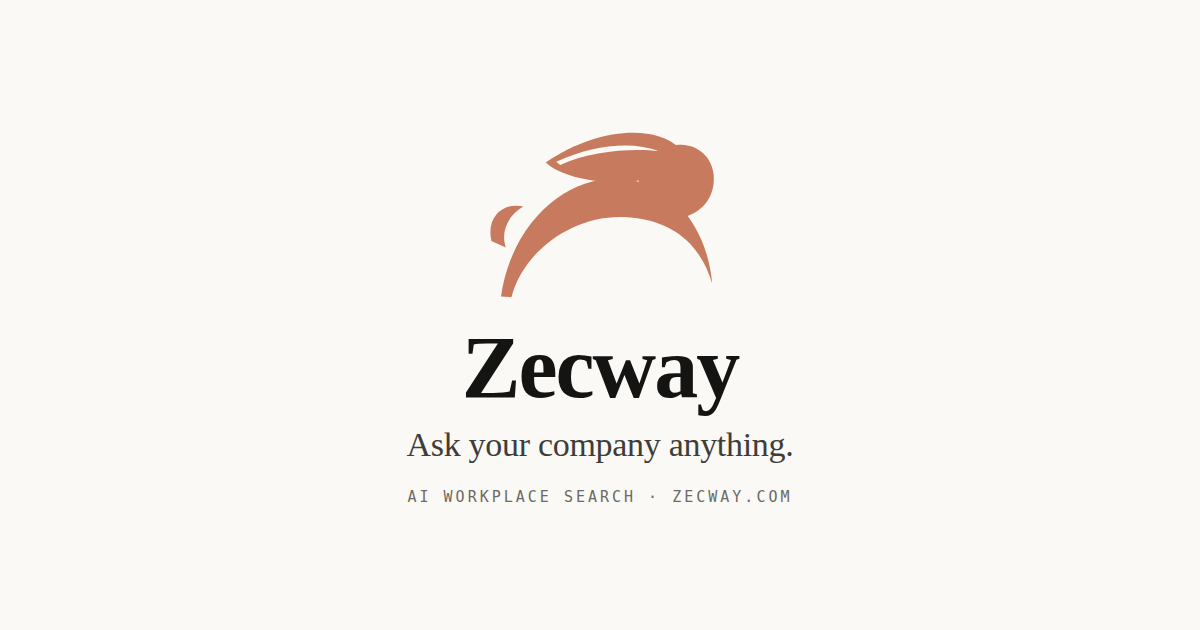
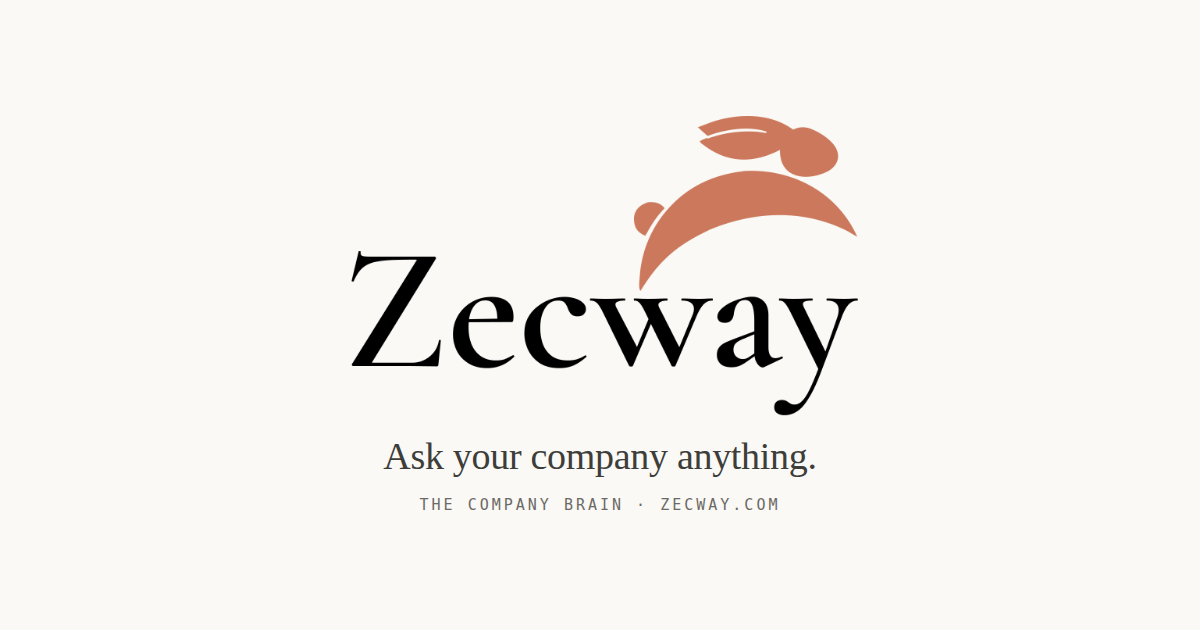
The original brand files, everywhere
Founder uploaded the real logo assets (mark, horizontal and vertical
lockups, all transparent PNGs). The hand-traced stand-in is retired:
the vertical lockup crowns the hero and login, the horizontal lockup
heads the app sidebar and onboarding, the mark pairs with light text on
the dark footer, and the favicon and share card are regenerated from
the originals.

https://claude.ai/code/session_01JDsQz8DZRPav7TLz8N3Roo

Changed region(s): [[0.2775, 0.181, 0.7092, 0.6635], [0.3083, 0.6937, 0.6783, 0.8143], [0.6475, 0.6032, 0.6783, 0.6635]]

diff --git a/app/page.tsx b/app/page.tsx
@@ -31,7 +31,7 @@ const TICKER = [
 function Lockup({ dark = false }: { dark?: boolean }) {
   return (
     <span className="flex items-center gap-2.5">
-      <img src="/zecway-mark.svg" alt="" className="h-6 w-auto" />
+      <img src="/brand/zecway-mark.png" alt="" className="h-6 w-auto" />
       <span
         className={`font-display text-2xl leading-none ${dark ? "text-on-dark" : "text-ink"}`}
       >
@@ -49,13 +49,12 @@ export default function Home() {
         <GraphField />
 
         <div className="relative z-10 flex w-full flex-col items-center">
-          {/* vertical lockup — the brand crowns the page */}
-          <div className="animate-fade-up mb-7 flex flex-col items-center gap-2.5">
-            <img src="/zecway-mark.svg" alt="" className="h-12 w-auto sm:h-14" />
-            <span className="font-display text-2xl leading-none text-ink sm:text-3xl">
-              Zecway
-            </span>
-          </div>
+          {/* the vertical lockup, as designed — the brand crowns the page */}
+          <img
+            src="/brand/zecway-vertical.png"
+            alt="Zecway"
+            className="animate-fade-up mb-7 h-24 w-auto sm:h-28"
+          />
 
           <p
             className="animate-fade-up mx-auto mb-6 inline-flex items-center gap-2 font-mono text-[11px] uppercase tracking-[0.2em] text-mist"

diff --git a/app/app/layout.tsx b/app/app/layout.tsx
@@ -16,9 +16,8 @@ export default async function AppLayout({ children }: { children: React.ReactNod
       <div className="min-h-screen">
         <header className="nav-blur sticky top-0 z-10 border-b border-line">
           <div className="mx-auto flex max-w-3xl items-center justify-between px-4 py-3">
-            <Link href="/" className="flex items-center gap-2 text-ink">
-              <img src="/zecway-mark.svg" alt="" className="h-5 w-auto" />
-              <span className="font-display text-xl leading-none">Zecway</span>
+            <Link href="/" className="block">
+              <img src="/brand/zecway-horizontal.png" alt="Zecway" className="h-7 w-auto" />
             </Link>
             <div className="flex items-center gap-4">
               <span className="hidden text-xs text-mist sm:block">{user.email}</span>

diff --git a/app/app/shell.tsx b/app/app/shell.tsx
@@ -90,9 +90,8 @@ function SidebarContent({
   return (
     <div className="flex h-full flex-col p-4">
       <div className="mb-6 px-3 pt-2">
-        <Link href="/" className="flex items-center gap-2 text-ink">
-          <img src="/zecway-mark.svg" alt="" className="h-4 w-auto" />
-          <span className="font-display text-lg leading-none">Zecway</span>
+        <Link href="/" className="block">
+          <img src="/brand/zecway-horizontal.png" alt="Zecway" className="h-6 w-auto" />
         </Link>
         <p className="mt-3 truncate text-sm font-semibold text-ink">{workspaceName}</p>
       </div>

diff --git a/app/login/page.tsx b/app/login/page.tsx
@@ -234,8 +234,7 @@ export default function LoginPage() {
             href="/"
             className="mb-10 flex flex-col items-center gap-3 text-2xl font-bold tracking-tight text-ink"
           >
-            <img src="/zecway-mark.svg" alt="Zecway" className="h-10 w-auto" />
-            <span className="font-display">Zecway</span>
+            <img src="/brand/zecway-vertical.png" alt="Zecway" className="h-20 w-auto" />
           </Link>
           <Suspense>
             <LoginForm />
